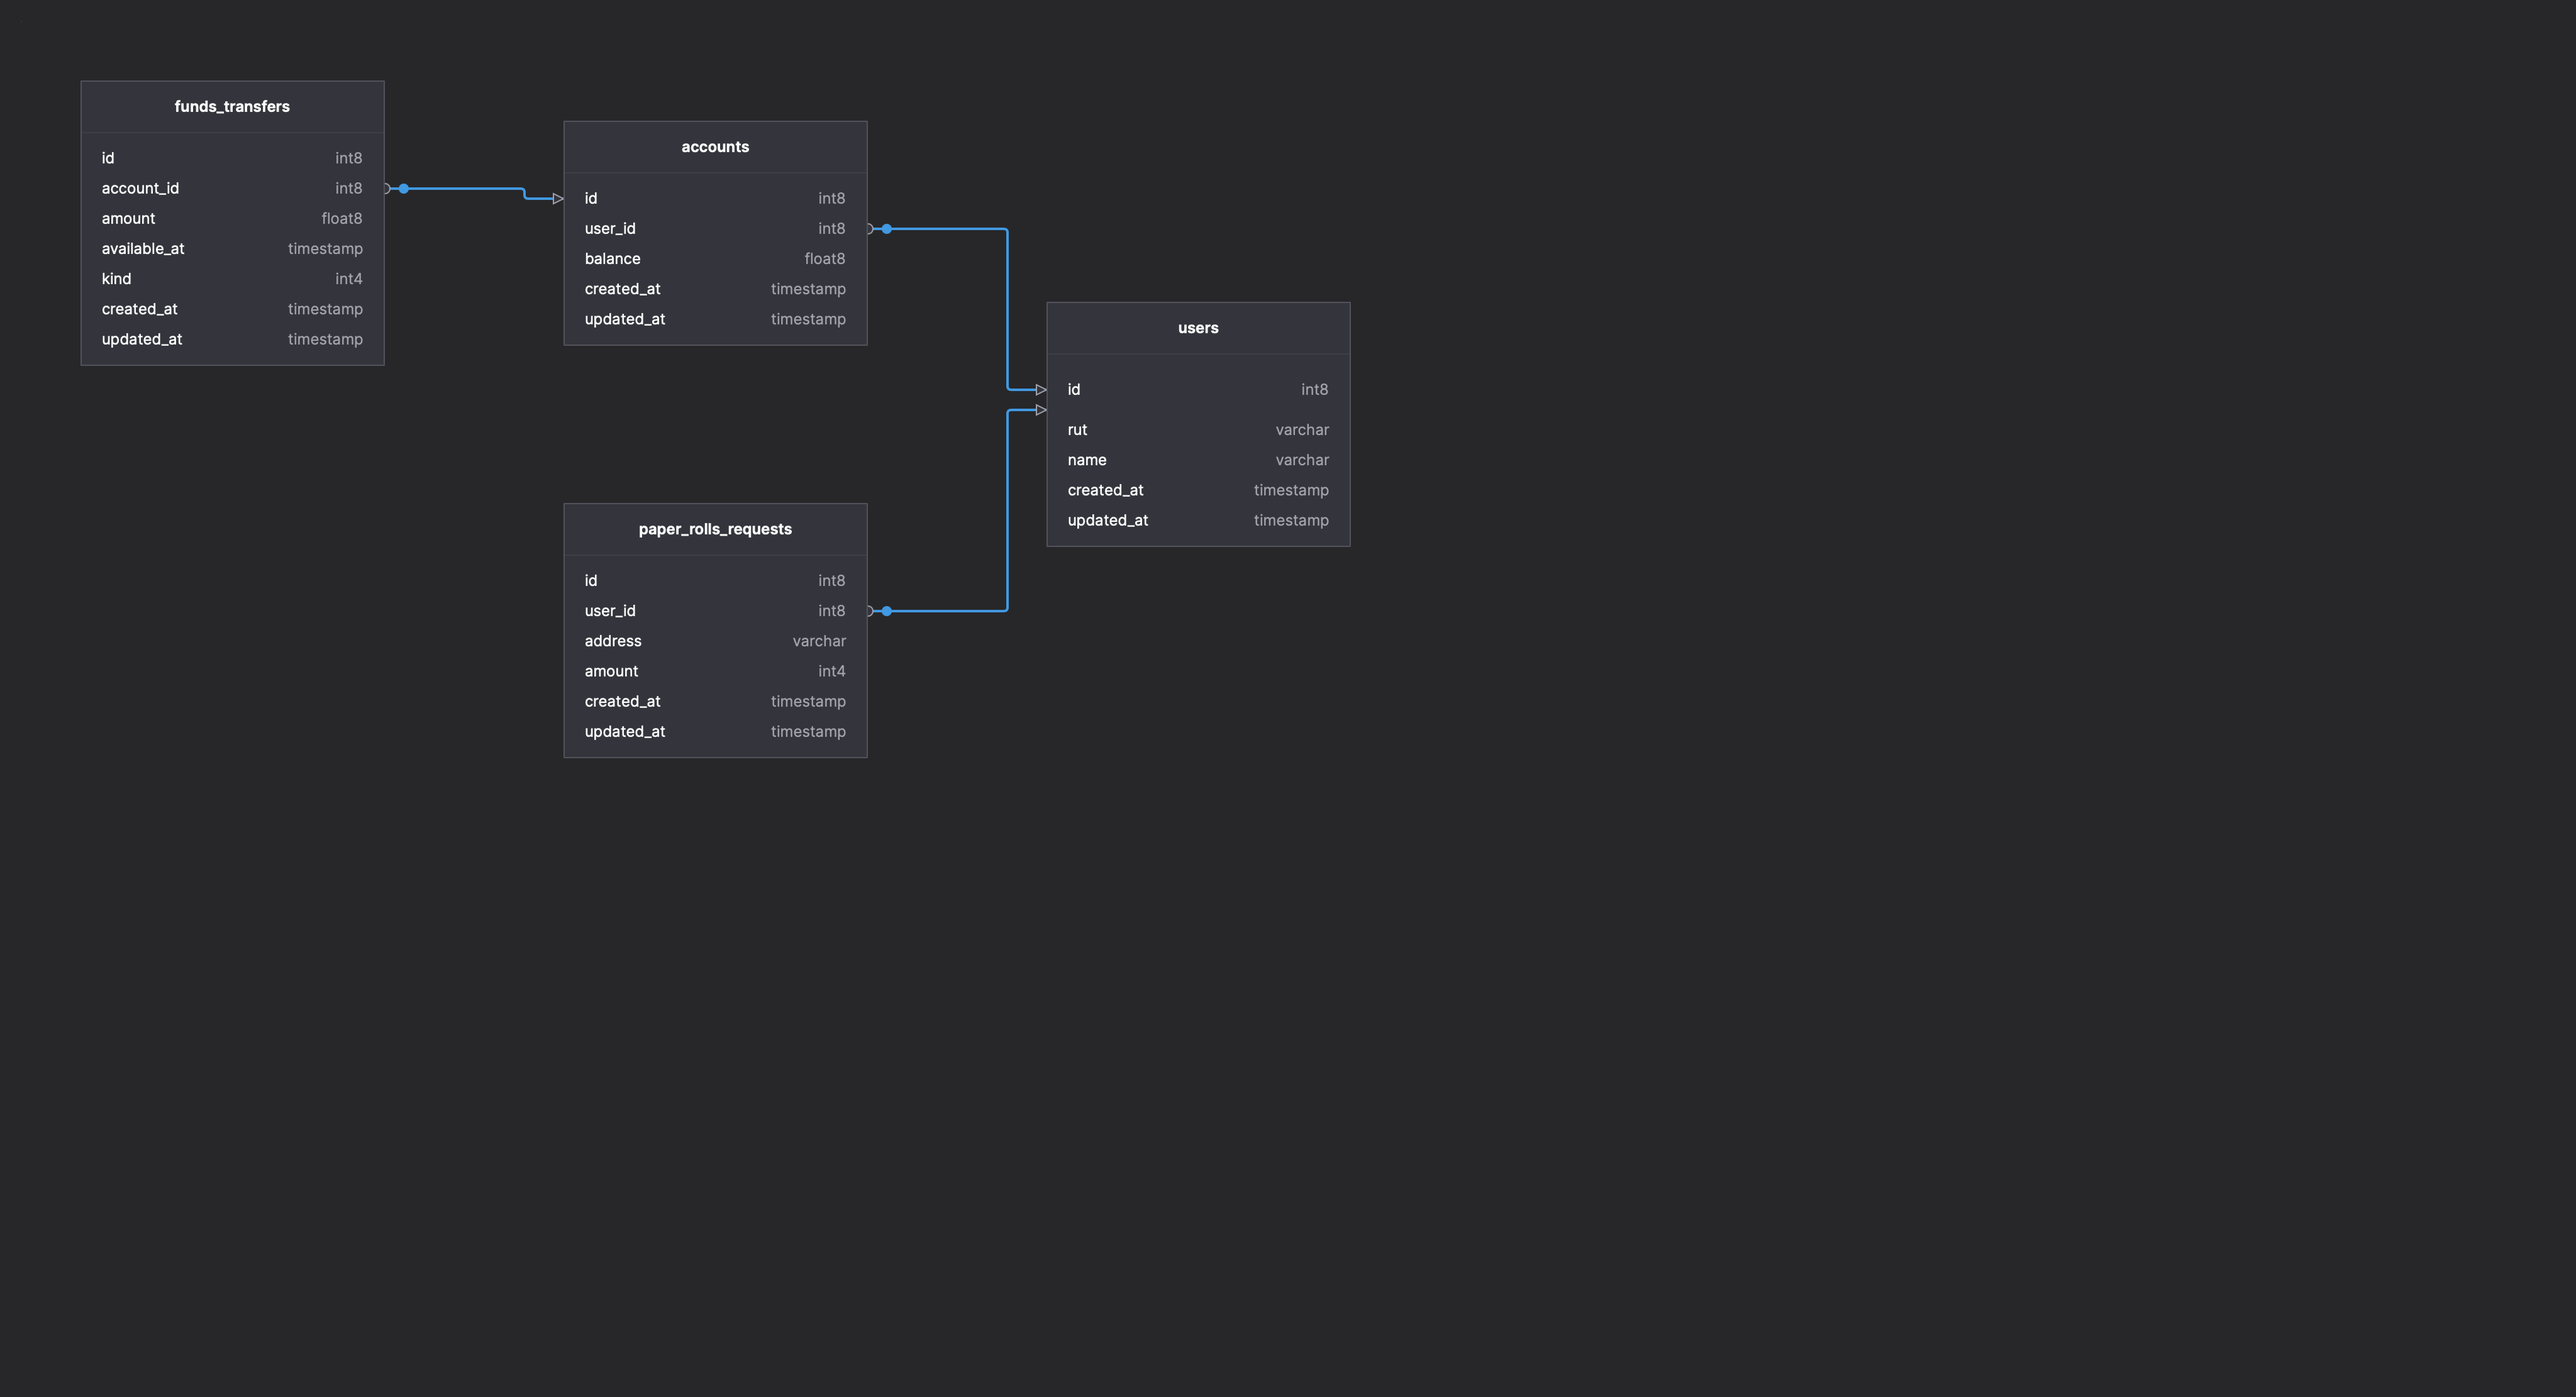
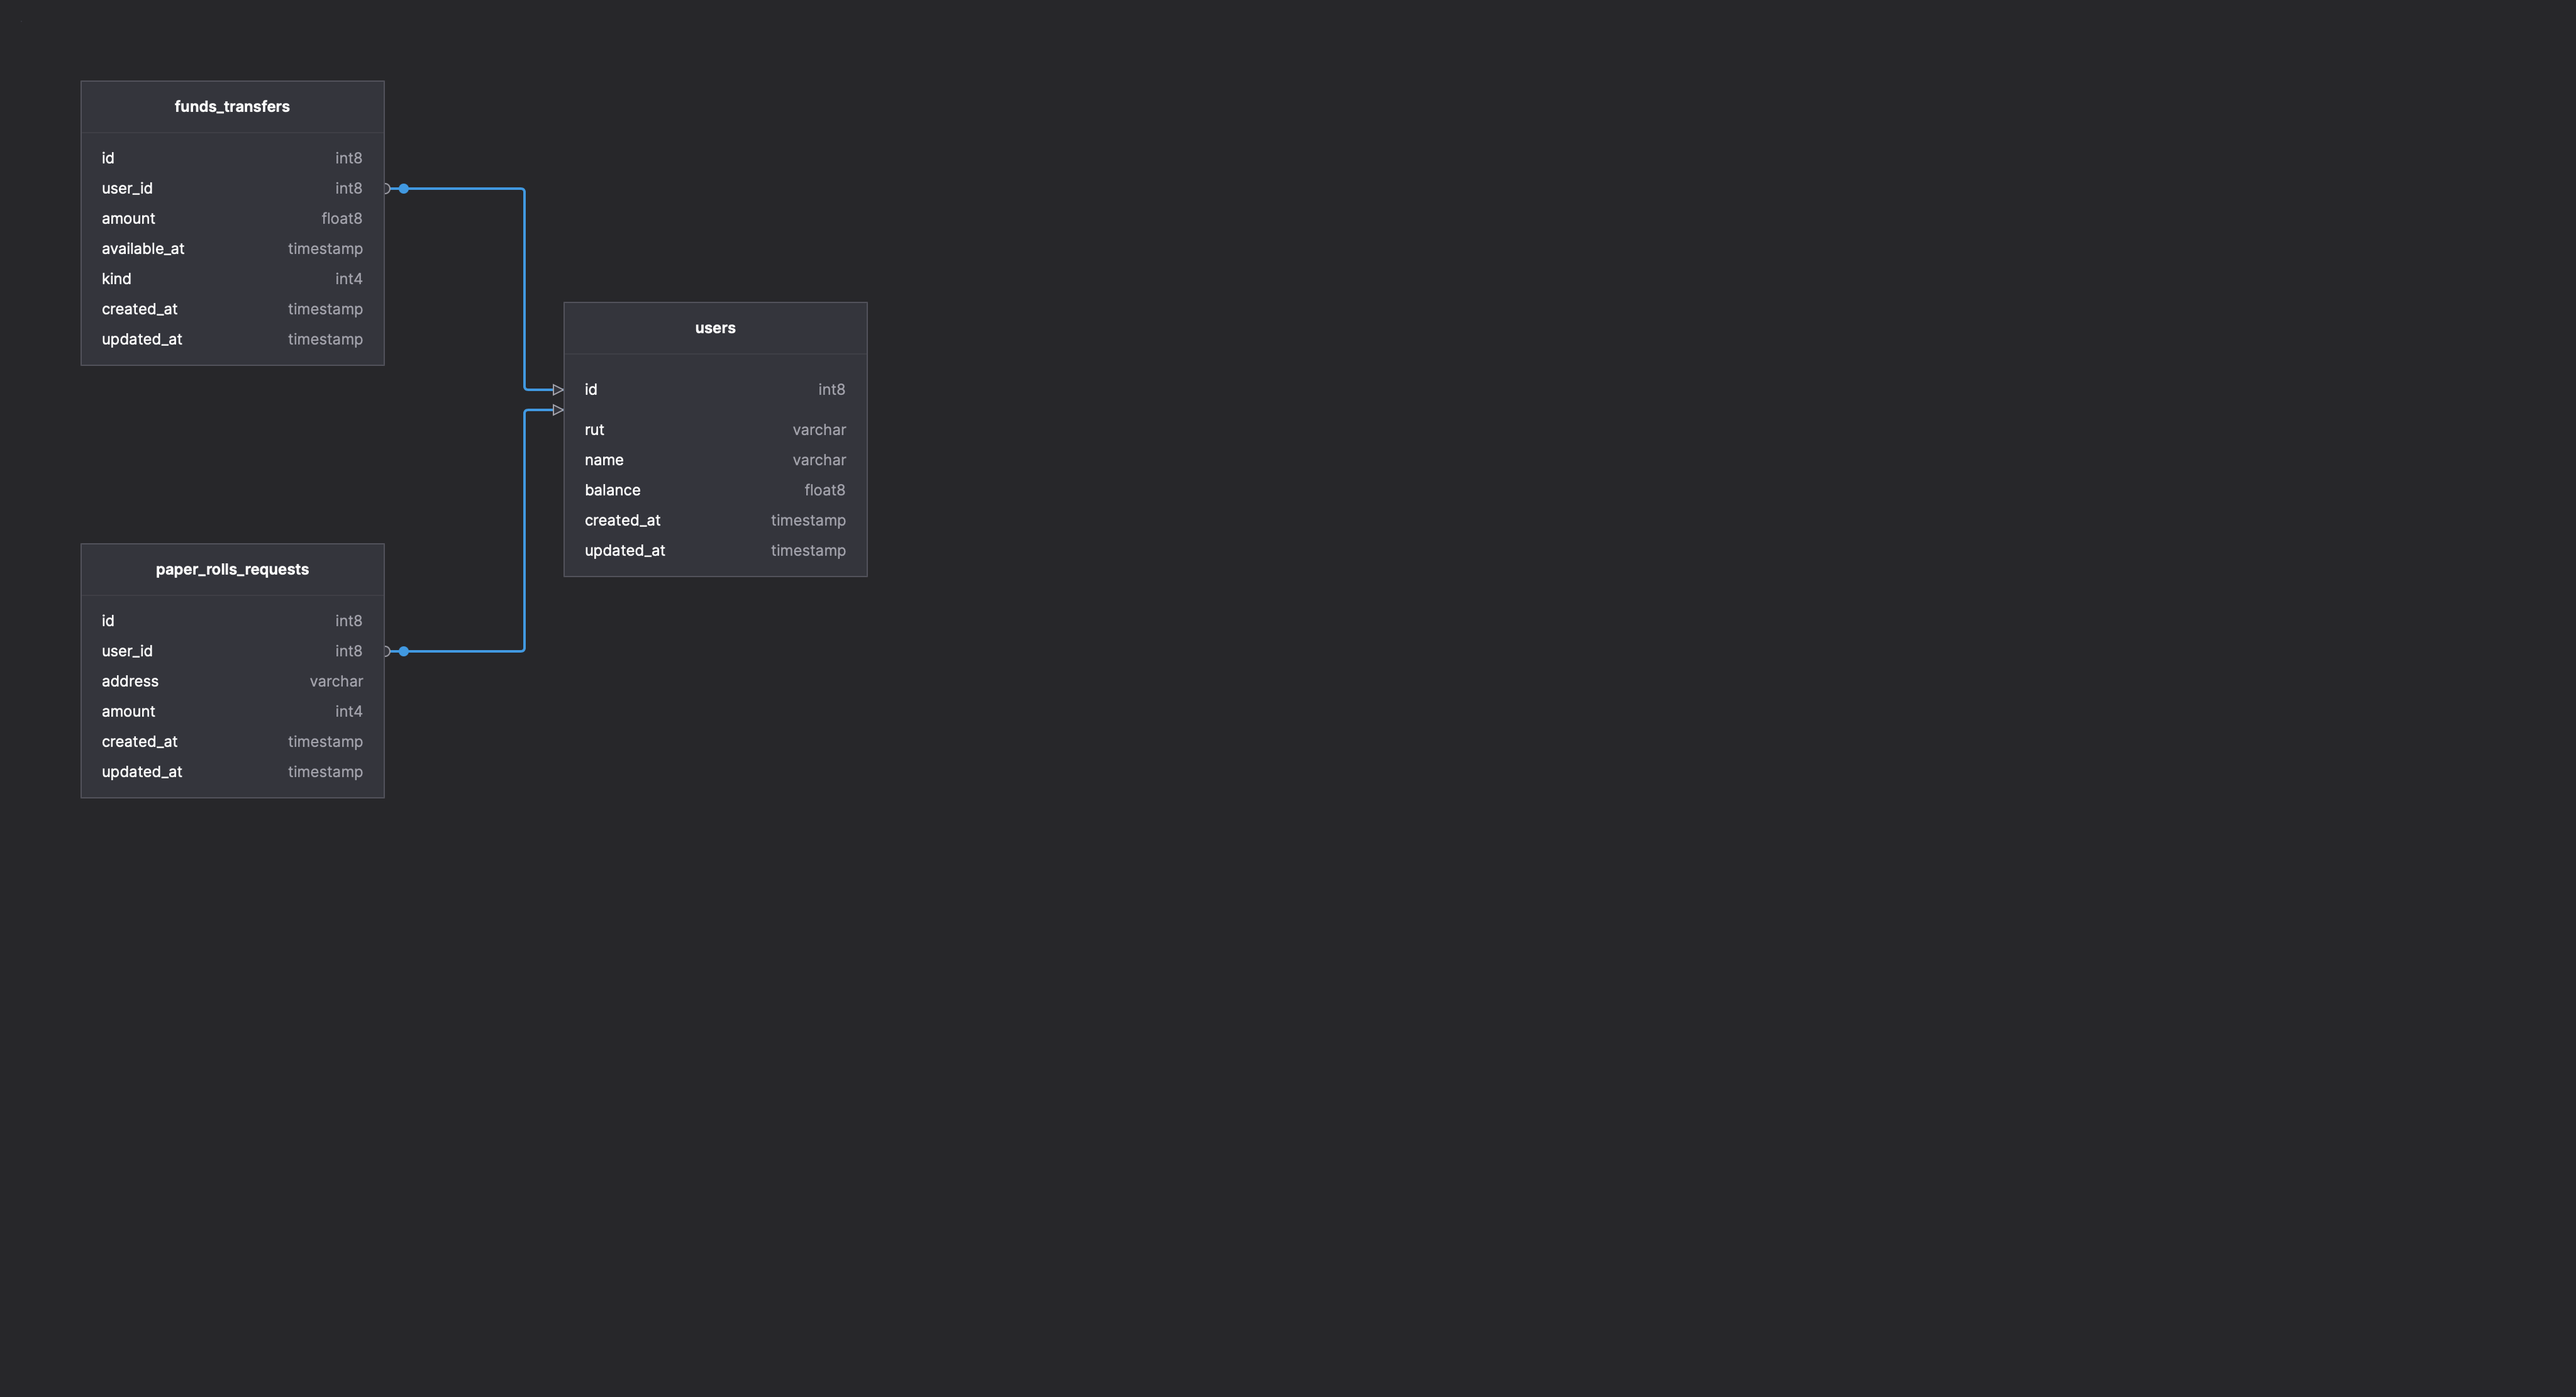
[#3] Balance

diff --git a/db/schema.rb b/db/schema.rb
@@ -1,0 +1,46 @@
+# This file is auto-generated from the current state of the database. Instead
+# of editing this file, please use the migrations feature of Active Record to
+# incrementally modify your database, and then regenerate this schema definition.
+#
+# This file is the source Rails uses to define your schema when running `bin/rails
+# db:schema:load`. When creating a new database, `bin/rails db:schema:load` tends to
+# be faster and is potentially less error prone than running all of your
+# migrations from scratch. Old migrations may fail to apply correctly if those
+# migrations use external dependencies or application code.
+#
+# It's strongly recommended that you check this file into your version control system.
+
+ActiveRecord::Schema[7.0].define(version: 2023_04_28_051926) do
+  # These are extensions that must be enabled in order to support this database
+  enable_extension "plpgsql"
+
+  create_table "funds_transfers", force: :cascade do |t|
+    t.bigint "user_id", null: false
+    t.float "amount"
+    t.datetime "available_at"
+    t.integer "kind"
+    t.datetime "created_at", null: false
+    t.datetime "updated_at", null: false
+    t.index ["user_id"], name: "index_funds_transfers_on_user_id"
+  end
+
+  create_table "paper_rolls_requests", force: :cascade do |t|
+    t.bigint "user_id", null: false
+    t.string "address"
+    t.integer "amount"
+    t.datetime "created_at", null: false
+    t.datetime "updated_at", null: false
+    t.index ["user_id"], name: "index_paper_rolls_requests_on_user_id"
+  end
+
+  create_table "users", force: :cascade do |t|
+    t.string "rut"
+    t.string "name"
+    t.float "balance"
+    t.datetime "created_at", null: false
+    t.datetime "updated_at", null: false
+  end
+
+  add_foreign_key "funds_transfers", "users"
+  add_foreign_key "paper_rolls_requests", "users"
+end

diff --git a/app/models/paper_rolls_request.rb b/app/models/paper_rolls_request.rb
@@ -2,14 +2,12 @@ class PaperRollsRequest < ApplicationRecord
   BASE_VALUE_PER_ROLL = 700
 
   belongs_to :user
-  has_many :accounts, through: :user
+  has_many :funds_transfers, through: :user
 
   validate :insufficient_balance?
-  after_create :attach_funds_transfer!
+  after_create :attach_withdrawal!
 
-  def total_balance
-    accounts.sum(:balance)
-  end
+  delegate :balance, to: :user
 
   def price
     BASE_VALUE_PER_ROLL * amount
@@ -18,11 +16,15 @@ class PaperRollsRequest < ApplicationRecord
   private
 
   def insufficient_balance?
-    if price > total_balance
-      self.errors.add :base, 'Saldo insuficiente'
+    if balance && price > balance
+      errors.add(:base, 'Saldo insuficiente')
     end
   end
 
-  def attach_funds_transfer!
+  def attach_withdrawal!
+    FundsTransfer.withdrawal.create(
+      user: user,
+      amount: price,
+    )
   end
 end

diff --git a/app/models/funds_transfer.rb b/app/models/funds_transfer.rb
@@ -1,8 +1,25 @@
 class FundsTransfer < ApplicationRecord
   include FundsTransferRepository
 
-  belongs_to :account
+  belongs_to :user
 
   enum :kind, [:withdrawal, :deposit]
   validates :kind, presence: true, inclusion: { in: kinds.keys }
+
+  after_create :update_balance!
+
+  private
+
+  def update_balance!
+    current_balance = deposit_balance - withdrawal_balance
+    user.update(balance: current_balance)
+  end
+
+  def deposit_balance
+    self.class.deposit_balance(user_id)
+  end
+
+  def withdrawal_balance
+    self.class.withdrawal_balance(user_id)
+  end
 end

diff --git a/app/repositories/funds_transfer_repository.rb b/app/repositories/funds_transfer_repository.rb
@@ -6,5 +6,8 @@ module FundsTransferRepository
       parsed_date = Date.parse(available_at)
       deposit.where(created_at: parsed_date.all_day)
     end
+    scope :from_user, ->(user_id) { where(user_id:) }
+    scope :withdrawal_balance, ->(user_id) { from_user(user_id).withdrawal.sum(:amount) }
+    scope :deposit_balance, ->(user_id) { from_user(user_id).deposit.sum(:amount) }
   end
 end

diff --git a/spec/factories/funds_transfer.rb b/spec/factories/funds_transfer.rb
@@ -1,6 +1,6 @@
 FactoryBot.define do
   factory :fund_transfer, class: FundsTransfer do
-    account { Account.order("RANDOM()").first }
+    user { User.order("RANDOM()").first }
     amount { Faker::Number.between(from: 1.0, to: 99999999) }
     available_at { Faker::Date.in_date_period }
     kind { FundsTransfer.kinds.keys.sample }

diff --git a/db/migrate/20230428051832_create_funds_transfers.rb b/db/migrate/20230428051832_create_funds_transfers.rb
@@ -1,7 +1,7 @@
 class CreateFundsTransfers < ActiveRecord::Migration[7.0]
   def change
     create_table :funds_transfers do |t|
-      t.references :account, null: false, foreign_key: true
+      t.references :user, null: false, foreign_key: true
       t.float :amount
       t.datetime :available_at
       t.integer :kind

diff --git a/app/repositories/paper_rolls_request_repository.rb b/app/repositories/paper_rolls_request_repository.rb
@@ -1,0 +1,10 @@
+module PaperRollsRequestRepository
+  extend ActiveSupport::Concern
+
+  included do
+    scope :deposit_at, ->(available_at) do
+      parsed_date = Date.parse(available_at)
+      deposit.where(created_at: parsed_date.all_day)
+    end
+  end
+end

diff --git a/app/models/user.rb b/app/models/user.rb
@@ -1,6 +1,5 @@
 class User < ApplicationRecord
-  has_many :accounts
-  has_many :funds_transfers, through: :accounts
+  has_many :funds_transfers
   has_many :paper_rolls_requests
 
   validates :rut, presence: true, uniqueness: true

diff --git a/app/serializers/funds_transfer_serializer.rb b/app/serializers/funds_transfer_serializer.rb
@@ -1,4 +1,4 @@
 class FundsTransferSerializer < ActiveModel::Serializer
-  belongs_to :account
-  attributes :id, :amount, :available_at, :kind, :account
+  belongs_to :user
+  attributes :id, :amount, :available_at, :kind, :user
 end

diff --git a/db/migrate/20230428051043_create_users.rb b/db/migrate/20230428051043_create_users.rb
@@ -3,6 +3,7 @@ class CreateUsers < ActiveRecord::Migration[7.0]
     create_table :users do |t|
       t.string :rut
       t.string :name
+      t.float :balance
 
       t.timestamps
     end

diff --git a/app/serializers/user_serializer.rb b/app/serializers/user_serializer.rb
@@ -1,3 +1,3 @@
 class UserSerializer < ActiveModel::Serializer
-  attributes :id, :rut, :name
+  attributes :id, :rut, :name, :balance
 end

diff --git a/app/controllers/api/v1/meli_chat_controller.rb b/app/controllers/api/v1/meli_chat_controller.rb
@@ -24,4 +24,3 @@ class Api::V1::MeliChatController < ApplicationController
     @user = User.find_by!(rut: params[:rut])
   end
 end
-
